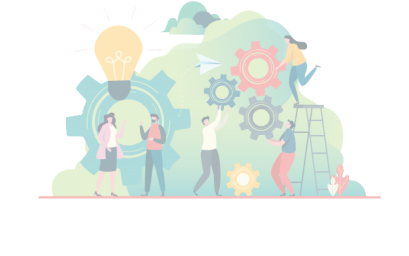
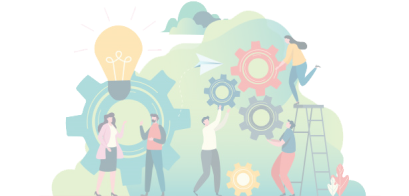
our features screen completed

diff --git a/lib/screens/our_features_screen.dart b/lib/screens/our_features_screen.dart
@@ -26,7 +26,7 @@ class OurFeatures extends StatelessWidget {
                 color: Hexcolor('#E7F3FF'),
                 image: DecorationImage(
                   image: AssetImage('assets/images/our feature page bg.png'),
-                  fit: BoxFit.fitHeight,
+                  fit: BoxFit.contain,
                 ),
               ),
               child: Column(
@@ -91,7 +91,7 @@ class OurFeatures extends StatelessWidget {
             Container(
               padding: EdgeInsets.only(
                 top: mediaQuery.size.height * 0.05,
-                bottom: mediaQuery.size.height * 0.095,
+                bottom: mediaQuery.size.height * 0.069,
               ),
               width: double.infinity,
               decoration: BoxDecoration(
@@ -105,7 +105,6 @@ class OurFeatures extends StatelessWidget {
                 crossAxisAlignment: CrossAxisAlignment.start,
                 children: <Widget>[
                   Container(
-                    // margin: EdgeInsets.only(top: mediaQuery.size.height * 0.04),
                     child: ClipRRect(
                       borderRadius: BorderRadius.only(
                         topRight: Radius.circular(32),
@@ -135,35 +134,233 @@ class OurFeatures extends StatelessWidget {
                       ),
                     ),
                   ),
-                  Row(
-                    children: <Widget>[
-                      Card(
-                        color: Hexcolor('#E7F3FF'),
-                        child: Column(
-                          crossAxisAlignment: CrossAxisAlignment.start,
-                          children: <Widget>[
-                            Container(
-                              child: Text(
-                                'We',
-                                style: TextStyle(
-                                  color: Colors.black,
-                                  fontSize: 35
-                                ), 
-                              ), 
-                            ),
-                            Container(
-                              child: Text(
-                                'Create',
-                                style: TextStyle(
-                                  color: Colors.black,
-                                  fontSize: 35,
+                  SingleChildScrollView(
+                    scrollDirection: Axis.horizontal,
+                    child: Row(
+                      children: <Widget>[
+                        Container(
+                          height: 371,
+                          width: 285,
+                          decoration: BoxDecoration(
+                            color: Hexcolor('#E7F3FF'),
+                            borderRadius: BorderRadius.circular(32),
+                            boxShadow: [
+                              BoxShadow(
+                                color: Colors.black26,
+                                blurRadius: 16,
+                                // spreadRadius: 5,
+                                offset: Offset(
+                                  10,
+                                  10,
                                 ),
                               ),
-                            ),
-                          ],
+                            ],
+                          ),
+                          margin: EdgeInsets.only(
+                            top: 100,
+                            left: 30,
+                            bottom: 50,
+                          ),
+                          padding: EdgeInsets.only(
+                            top: 17,
+                            left: 23,
+                            right: 21,
+                          ),
+                          child: Column(
+                            crossAxisAlignment: CrossAxisAlignment.start,
+                            children: <Widget>[
+                              Container(
+                                child: Text(
+                                  'We',
+                                  style: TextStyle(
+                                    color: Colors.black,
+                                    fontSize: 35,
+                                    fontFamily: 'Poppins',
+                                  ),
+                                ),
+                              ),
+                              Container(
+                                child: Text(
+                                  'Create',
+                                  style: TextStyle(
+                                      color: Colors.black,
+                                      fontSize: 35,
+                                      fontFamily: 'Poppins',
+                                      height: 1),
+                                ),
+                              ),
+                              Container(
+                                margin: EdgeInsets.only(top: 26),
+                                decoration: BoxDecoration(
+                                  image: DecorationImage(
+                                    image: AssetImage(
+                                        'assets/images/we create bg.png'),
+                                  ),
+                                ),
+                                child: Text(
+                                  'We at CSI not only try, rather we do the things which helps us create something which is still an imagination for most, and we create those platforms which enables others to put out their innovative ideas and beliefs, to create a better world.',
+                                  style: TextStyle(
+                                    color: Colors.black,
+                                    fontSize: 16,
+                                    letterSpacing: 1.6,
+                                    height: 1.4,
+                                    fontFamily: 'Roboto',
+                                  ),
+                                ),
+                              ),
+                            ],
+                          ),
                         ),
-                      ),
-                    ],
+                        Container(
+                          height: 371,
+                          width: 285,
+                          decoration: BoxDecoration(
+                            color: Hexcolor('#E7F3FF'),
+                            borderRadius: BorderRadius.circular(32),
+                            boxShadow: [
+                              BoxShadow(
+                                color: Colors.black26,
+                                blurRadius: 16,
+                                // spreadRadius: 5,
+                                offset: Offset(
+                                  10,
+                                  10,
+                                ),
+                              ),
+                            ],
+                          ),
+                          margin: EdgeInsets.only(
+                            top: 51,
+                            left: 30,
+                            // right: 21,
+                          ),
+                          padding: EdgeInsets.only(
+                            top: 17,
+                            left: 23,
+                            right: 21,
+                          ),
+                          child: Column(
+                            crossAxisAlignment: CrossAxisAlignment.start,
+                            children: <Widget>[
+                              Container(
+                                child: Text(
+                                  'We',
+                                  style: TextStyle(
+                                    color: Colors.black,
+                                    fontSize: 35,
+                                    fontFamily: 'Poppins',
+                                  ),
+                                ),
+                              ),
+                              Container(
+                                child: Text(
+                                  'Share',
+                                  style: TextStyle(
+                                      color: Colors.black,
+                                      fontSize: 35,
+                                      fontFamily: 'Poppins',
+                                      height: 1),
+                                ),
+                              ),
+                              Container(
+                                margin: EdgeInsets.only(top: 26),
+                                decoration: BoxDecoration(
+                                  image: DecorationImage(
+                                    image: AssetImage(
+                                        'assets/images/we create bg.png'),
+                                  ),
+                                ),
+                                child: Text(
+                                  'We at CSI not only try, rather we do the things which helps us create something which is still an imagination for most, and we create those platforms which enables others to put out their innovative ideas and beliefs, to create a better world.',
+                                  style: TextStyle(
+                                    color: Colors.black,
+                                    fontSize: 16,
+                                    letterSpacing: 1.6,
+                                    height: 1.4,
+                                    fontFamily: 'Roboto',
+                                  ),
+                                ),
+                              ),
+                            ],
+                          ),
+                        ),
+                        Container(
+                          height: 371,
+                          width: 285,
+                          decoration: BoxDecoration(
+                            color: Hexcolor('#E7F3FF'),
+                            borderRadius: BorderRadius.circular(32),
+                            boxShadow: [
+                              BoxShadow(
+                                color: Colors.black26,
+                                blurRadius: 16,
+                                // spreadRadius: 5,
+                                offset: Offset(
+                                  10,
+                                  10,
+                                ),
+                              ),
+                            ],
+                          ),
+                          margin: EdgeInsets.only(
+                            top: 51,
+                            left: 30,
+                            right: 30
+                            // right: 21,
+                          ),
+                          padding: EdgeInsets.only(
+                            top: 17,
+                            left: 23,
+                            right: 21,
+                          ),
+                          child: Column(
+                            crossAxisAlignment: CrossAxisAlignment.start,
+                            children: <Widget>[
+                              Container(
+                                child: Text(
+                                  'We',
+                                  style: TextStyle(
+                                    color: Colors.black,
+                                    fontSize: 35,
+                                    fontFamily: 'Poppins',
+                                  ),
+                                ),
+                              ),
+                              Container(
+                                child: Text(
+                                  'Innovate',
+                                  style: TextStyle(
+                                    color: Colors.black,
+                                    fontSize: 35,
+                                    fontFamily: 'Poppins',
+                                    height: 1,
+                                  ),
+                                ),
+                              ),
+                              Container(
+                                margin: EdgeInsets.only(top: 26),
+                                decoration: BoxDecoration(
+                                  image: DecorationImage(
+                                    image: AssetImage(
+                                        'assets/images/we create bg.png'),
+                                  ),
+                                ),
+                                child: Text(
+                                  'We at CSI not only try, rather we do the things which helps us create something which is still an imagination for most, and we create those platforms which enables others to put out their innovative ideas and beliefs, to create a better world.',
+                                  style: TextStyle(
+                                    color: Colors.black,
+                                    fontSize: 16,
+                                    letterSpacing: 1.6,
+                                    height: 1.4,
+                                    fontFamily: 'Roboto',
+                                  ),
+                                ),
+                              ),
+                            ],
+                          ),
+                        ),
+                      ],
+                    ),
                   )
                 ],
               ),
